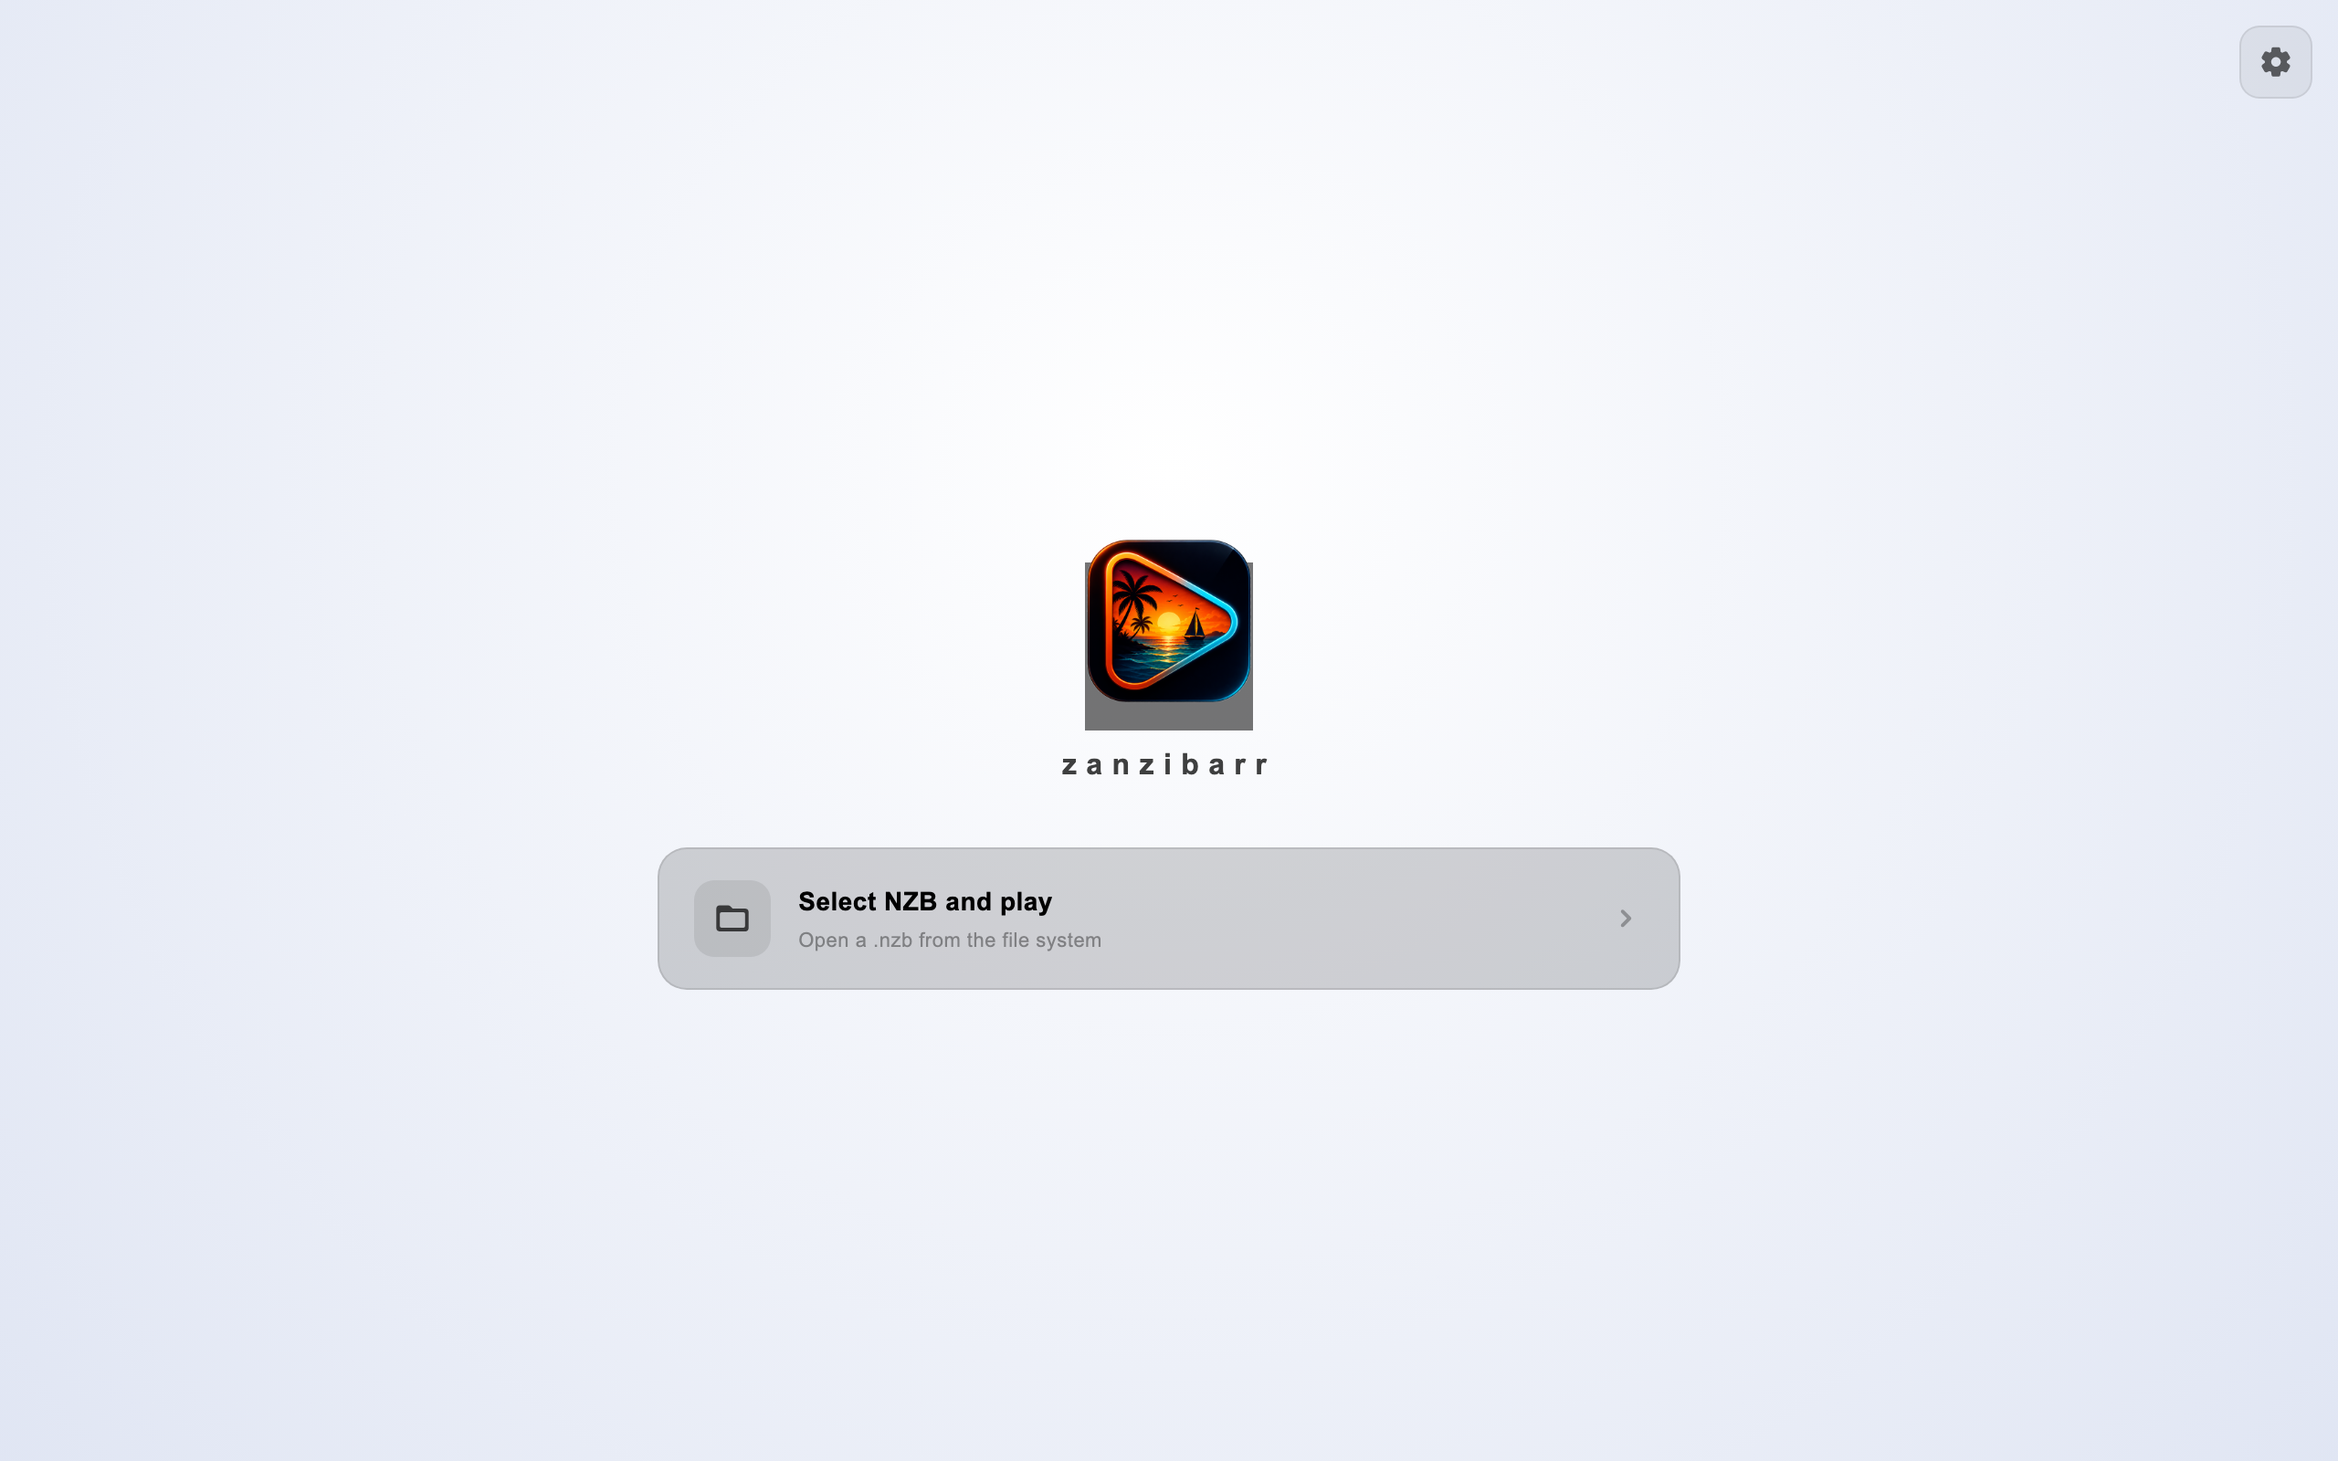
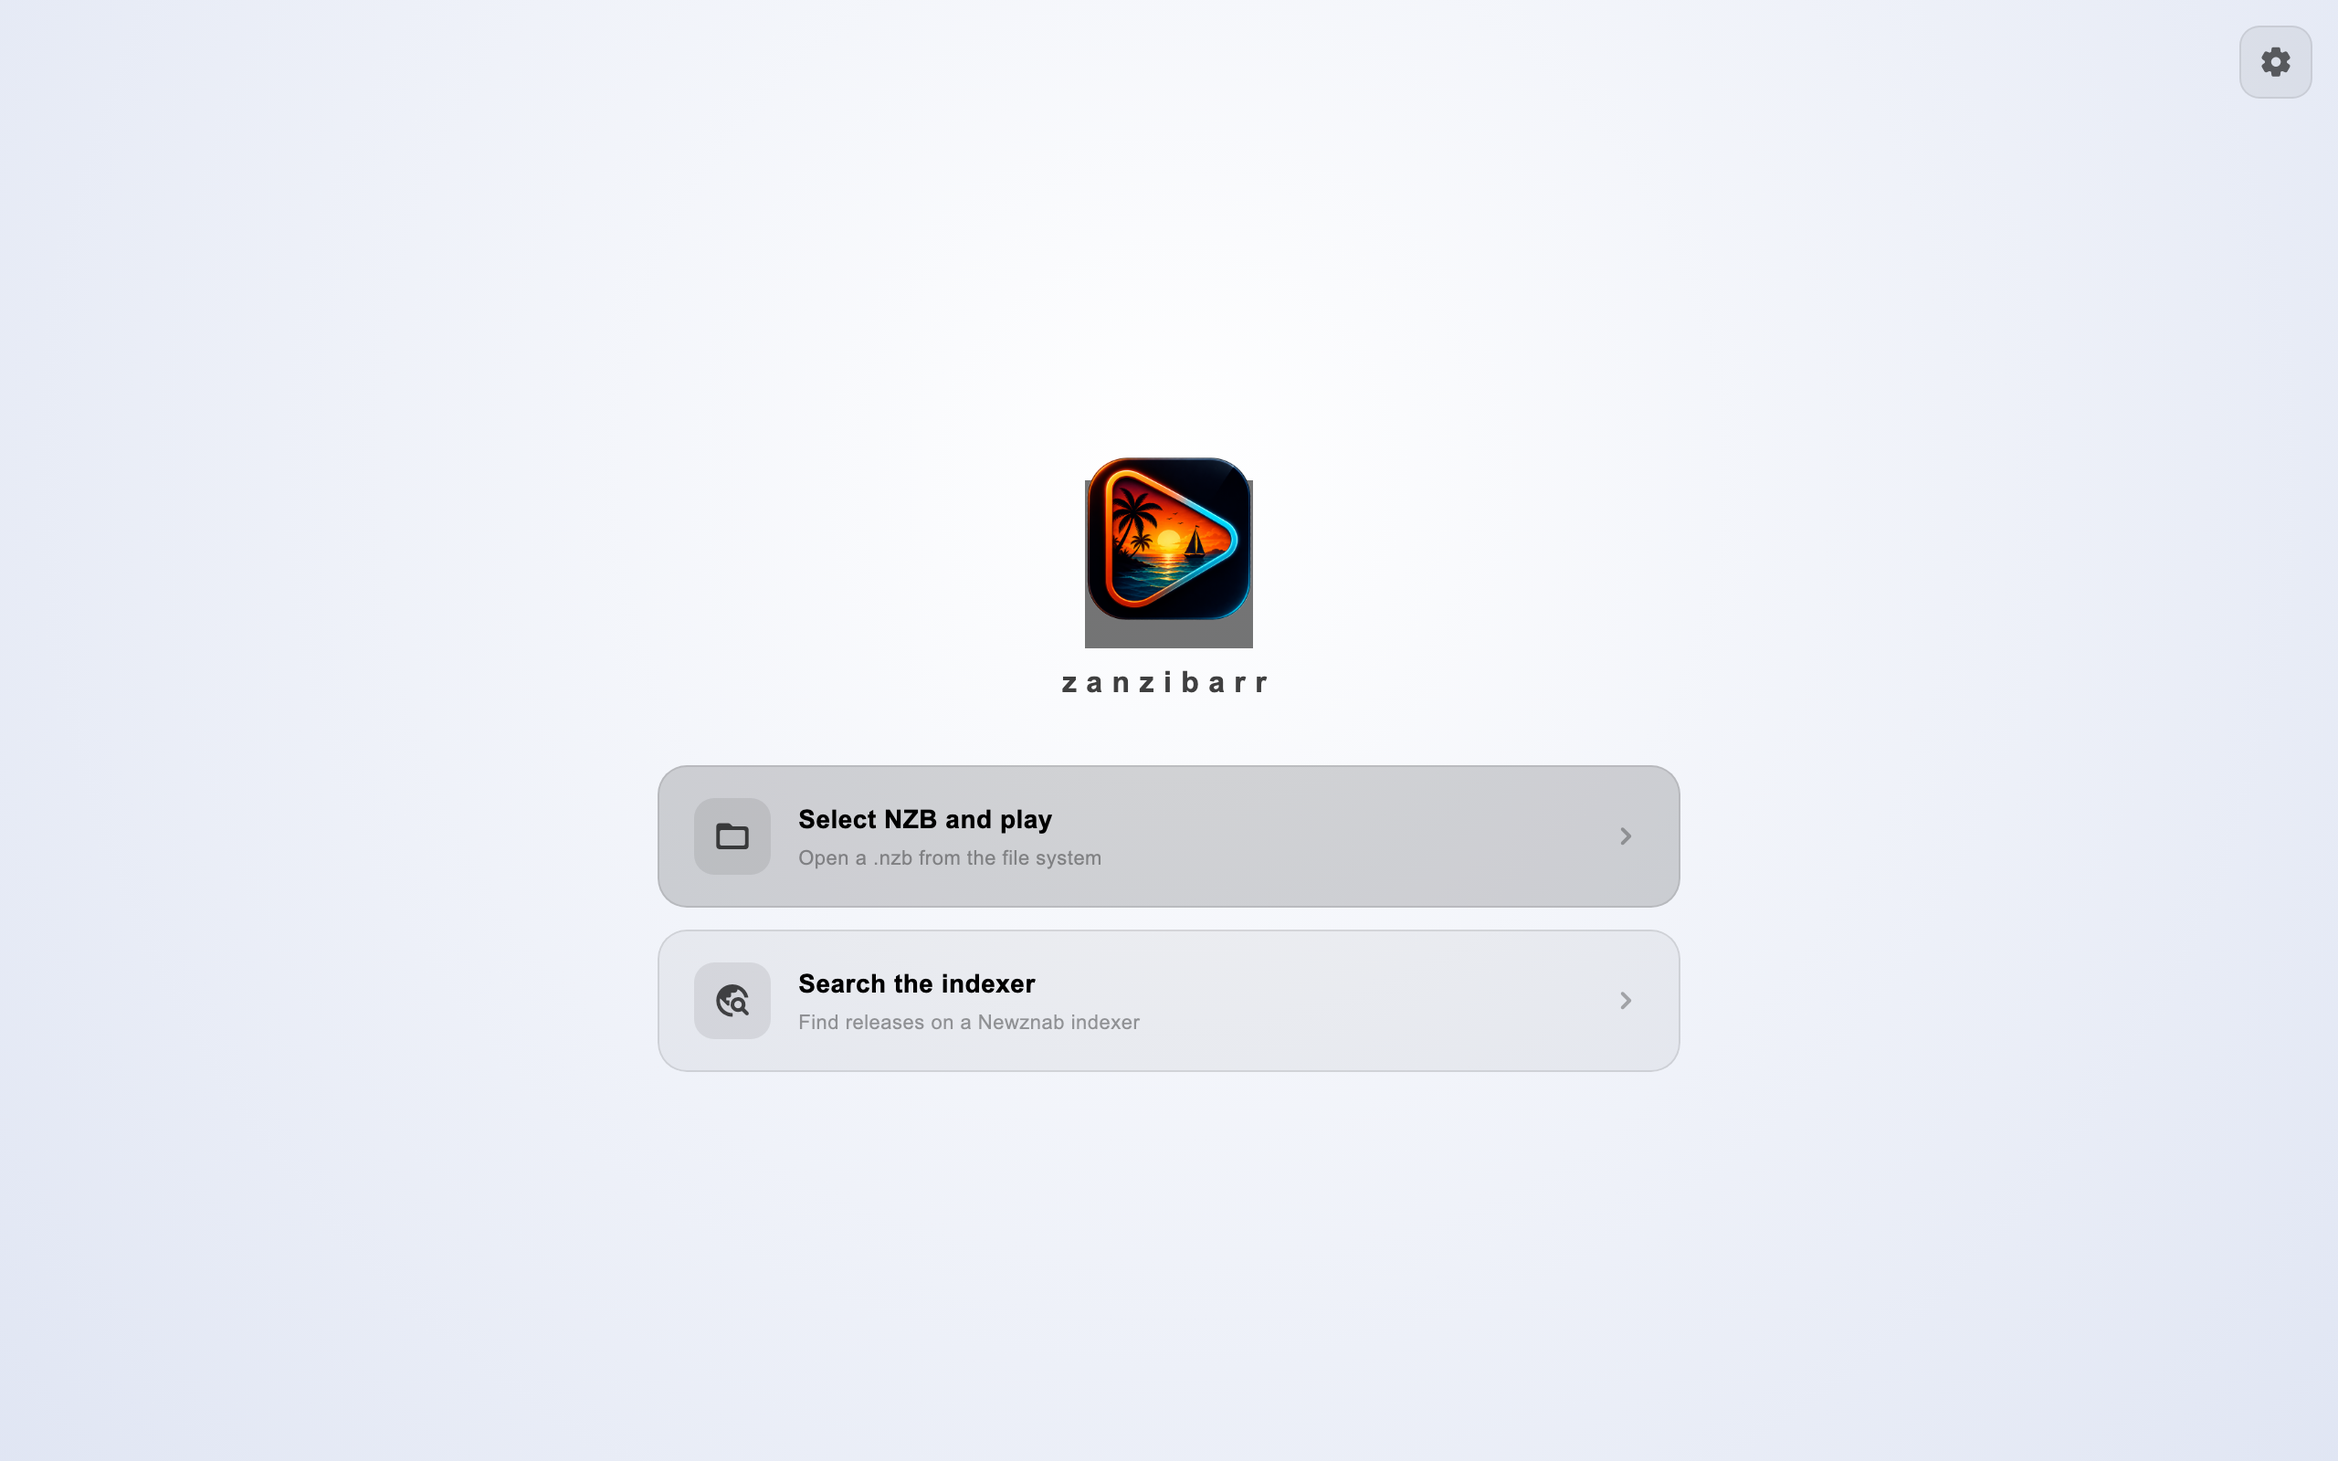
docs: indexer + PAR2 tanitimi — README/site ozellikleri, taze ekran goruntuleri, yeni demo GIF
- README: indexer arama, PAR2 onarim ve RAR4/sikistirilmis-7z destegi
  ozelliklere islendi; bayat 'compressed RAR/7z ve RAR4 reddedilir'
  cumlesi duzeltildi
- site: indexer + PAR2 kartlari, search.png galeride, roadmap guncel
- screenshots harness: settings artik indexer bolumunu de iciniyor,
  yeni 'search' golden'i ve demo_frames kare dizisi (12 kare);
  demo.gif indexerli akisla yeniden uretildi

Changed region(s): [[0.2812, 0.3125, 0.7188, 0.7188]]

diff --git a/test/screenshots_test.dart b/test/screenshots_test.dart
@@ -11,9 +11,12 @@ import 'package:zanzibarr/main.dart';
 import 'package:zanzibarr/player/gyuni_player_controls.dart';
 import 'package:zanzibarr/player/smart_canvas.dart';
 import 'package:zanzibarr/player/smart_canvas_overlay.dart';
+import 'package:zanzibarr/search/search_screen.dart';
+import 'package:zanzibarr/settings/indexer_settings.dart';
 import 'package:zanzibarr/settings/provider_settings.dart';
 import 'package:zanzibarr/settings/settings_screen.dart';
 import 'package:zanzibarr/settings/ui_preferences.dart';
+import 'package:zanzibarr/src/rust/api/search.dart';
 
 /// README için gerçek UI ekran görüntüleri üreten golden-test harness'ı.
 ///
@@ -184,6 +187,58 @@ class _FakeStore extends ProviderSettingsStore {
   @override
   Future<void> save(ProviderSettings settings) async {}
 }
+
+/// Indexer bölümü de dolu gözüksün diye sahte indexer deposu.
+class _FakeIndexerStore extends IndexerSettingsStore {
+  @override
+  Future<IndexerSettings> load() async => const IndexerSettings(
+    baseUrl: 'https://indexer.example',
+    apiKey: 'abc123-example-key',
+  );
+
+  @override
+  Future<void> save(IndexerSettings settings) async {}
+}
+
+/// Arama ekranı görseli için gerçekçi sonuç seti (rozetler Rust tarafından
+/// geliyormuş gibi; motor bunları release adından üretir).
+List<SearchItemDto> _fakeResults() => [
+  SearchItemDto(
+    title: 'Fight.Club.1999.UHD.BluRay.2160p.DDP.5.1.DV.HDR10.x265-hallowed',
+    nzbUrl: 'https://indexer.example/getnzb/1',
+    sizeBytes: BigInt.from(19463027098),
+    publishedEpochSecs:
+        DateTime.now().subtract(const Duration(days: 412)).millisecondsSinceEpoch ~/
+        1000,
+    badges: const ['2160p', 'BluRay', 'HEVC', 'DV', 'HDR10', 'DD+ 5.1'],
+    mediaKind: 'movie',
+    year: 1999,
+    group: 'hallowed',
+  ),
+  SearchItemDto(
+    title:
+        'Coming.to.America.1988.2160p.UHD.BluRay.Remux.HDR.DV.HEVC.DTS-HD.MA.5.1-PmP',
+    nzbUrl: 'https://indexer.example/getnzb/2',
+    sizeBytes: BigInt.from(52613349376),
+    publishedEpochSecs:
+        DateTime.now().subtract(const Duration(days: 87)).millisecondsSinceEpoch ~/
+        1000,
+    badges: const ['2160p', 'Remux', 'HEVC', 'HDR', 'DV', 'DTS-HD MA 5.1'],
+    mediaKind: 'movie',
+    year: 1988,
+  ),
+  SearchItemDto(
+    title: 'Fight.Club.1999.1080p.BluRay.x264.DTS-ESiR',
+    nzbUrl: 'https://indexer.example/getnzb/3',
+    sizeBytes: BigInt.from(10737418240),
+    publishedEpochSecs:
+        DateTime.now().subtract(const Duration(days: 640)).millisecondsSinceEpoch ~/
+        1000,
+    badges: const ['1080p', 'BluRay', 'x264', 'DTS'],
+    mediaKind: 'movie',
+    year: 1999,
+  ),
+];
 
 /// Oyuncu chrome'u için örnek parça listesi.
 const _tracks = Tracks(
@@ -614,6 +669,7 @@ void main() {
       _screenshotApp(
         SettingsScreen(
           store: _FakeStore(),
+          indexerStore: _FakeIndexerStore(),
           uiPreferences: UiPreferencesController(UiPreferencesStore()),
         ),
         ThemeMode.dark,
@@ -623,6 +679,33 @@ void main() {
     await expectLater(
       find.byType(MaterialApp),
       matchesGoldenFile('../docs/screenshots/settings.png'),
+    );
+  }), skip: _skipScreenshots);
+
+  testWidgets('search', (tester) => _desktopShot(() async {
+    _useWindow(tester, window);
+    await tester.pumpWidget(
+      _screenshotApp(
+        SearchScreen(
+          store: _FakeIndexerStore(),
+          searchFn: (config, query, limit, offset) async => SearchPageDto(
+            total: BigInt.from(3),
+            items: _fakeResults(),
+          ),
+          onDownloaded: (_) {},
+        ),
+        ThemeMode.dark,
+      ),
+    );
+    await _settleAssets(tester);
+    await tester.enterText(find.byType(TextField), 'fight club');
+    await tester.pump();
+    await tester.testTextInput.receiveAction(TextInputAction.search);
+    await tester.pump();
+    await tester.pump(const Duration(milliseconds: 400));
+    await expectLater(
+      find.byType(MaterialApp),
+      matchesGoldenFile('../docs/screenshots/search.png'),
     );
   }), skip: _skipScreenshots);
 
@@ -688,5 +771,76 @@ void main() {
       find.byType(MaterialApp),
       matchesGoldenFile('../docs/screenshots/smart_canvas.png'),
     );
+  }), skip: _skipScreenshots);
+
+  /// docs/screenshots/demo.gif için kare dizisi: ana ekran → indexer araması
+  /// → sonuçlar → indirme. Kareler `build/demo_frames/` altına düşer ve
+  /// ffmpeg ile paletli GIF'e birleştirilir (bkz. commit mesajı/notlar).
+  testWidgets('demo_frames', (tester) => _desktopShot(() async {
+    _useWindow(tester, const Size(2200, 1720)); // 1100×860 logical @2x
+    var frameIndex = 0;
+    Future<void> frame() async {
+      frameIndex++;
+      final name = 'f${frameIndex.toString().padLeft(2, '0')}';
+      await expectLater(
+        find.byType(MaterialApp),
+        matchesGoldenFile('../build/demo_frames/$name.png'),
+      );
+    }
+
+    // 1-3: ana ekran (indexer kartı ile).
+    await tester.pumpWidget(_screenshotApp(const HomeScreen(), ThemeMode.dark));
+    await _settleAssets(tester);
+    for (var n = 0; n < 3; n++) {
+      await frame();
+      await tester.pump(const Duration(milliseconds: 250));
+    }
+
+    // 4-7: arama ekranında sorgu yazımı.
+    await tester.pumpWidget(
+      _screenshotApp(
+        SearchScreen(
+          store: _FakeIndexerStore(),
+          searchFn: (config, query, limit, offset) async {
+            await Future<void>.delayed(const Duration(milliseconds: 350));
+            return SearchPageDto(total: BigInt.from(3), items: _fakeResults());
+          },
+          downloadFn: (config, url, name) async {
+            await Future<void>.delayed(const Duration(seconds: 2));
+            return '/tmp/demo.nzb';
+          },
+          onDownloaded: (_) {},
+        ),
+        ThemeMode.dark,
+      ),
+    );
+    await _settleAssets(tester);
+    for (final query in ['f', 'figh', 'fight cl', 'fight club']) {
+      await tester.enterText(find.byType(TextField), query);
+      await tester.pump();
+      await frame();
+    }
+
+    // 8: arama spinner'ı.
+    await tester.testTextInput.receiveAction(TextInputAction.search);
+    await tester.pump();
+    await frame();
+
+    // 9-10: sonuçlar.
+    await tester.pump(const Duration(milliseconds: 450));
+    await tester.pump();
+    await frame();
+    await tester.pump(const Duration(milliseconds: 250));
+    await frame();
+
+    // 11-12: ilk sonuca dokunma → indirme spinner'ı.
+    await tester.tap(find.text(_fakeResults().first.title));
+    await tester.pump();
+    await frame();
+    await tester.pump(const Duration(milliseconds: 250));
+    await frame();
+    // Gecikmeli downloadFn'in saati bitsin ki teardown'da timer kalmasın.
+    await tester.pump(const Duration(seconds: 2));
+    await tester.pumpAndSettle();
   }), skip: _skipScreenshots);
 }

diff --git a/docs/index.html b/docs/index.html
@@ -389,6 +389,11 @@ createApp({
           icon: icon('<polygon points="6 4 20 12 6 20 6 4" fill="currentColor" stroke="none"/>'),
         },
         {
+          title: 'Built-in indexer search',
+          body: 'Type a title, get release rows with quality badges — 2160p · HEVC · DV · Atmos — tap one and it just plays. No browser, no download queue.',
+          icon: icon('<circle cx="11" cy="11" r="7"/><path d="M21 21l-4.35-4.35"/>'),
+        },
+        {
           title: 'Seek like it\'s a local file',
           body: 'Byte offsets resolve from decoded yEnc begin/end positions — frame-accurate across thousands of segments, even on 100+ GB releases.',
           icon: icon('<circle cx="12" cy="12" r="9"/><polyline points="12 7 12 12 15.5 14"/>'),
@@ -397,6 +402,11 @@ createApp({
           title: 'Opens archives others won\'t',
           body: 'Multi-volume RAR5 and split 7z — including AES-256 encrypted sets — reassemble in memory into one virtual, seekable file. Nothing touches disk.',
           icon: icon('<rect x="3" y="4" width="18" height="14" rx="2"/><path d="M3 9h18M8 4v5"/>'),
+        },
+        {
+          title: 'Scratches don\'t stop the show',
+          body: 'Missing or corrupt segments get rebuilt with PAR2 Reed-Solomon repair — byte-exact against par2cmdline — and served from a local overlay. Playback resumes where it failed.',
+          icon: icon('<path d="M12 3l8 4v5c0 5-3.5 8-8 9-4.5-1-8-4-8-9V7z"/><path d="M9 12l2 2 4-4"/>'),
         },
         {
           title: 'HDR & Dolby Vision, honest',
@@ -431,10 +441,11 @@ createApp({
       ],
       shots: [
         { src: 'home_dark.png', caption: 'Home — dark theme' },
+        { src: 'search.png', caption: 'Indexer search — badges at a glance' },
         { src: 'player_controls.png', caption: 'Player — auto-hiding controls' },
         { src: 'advanced_settings.png', caption: 'Video & audio — HDR, decode, presets' },
         { src: 'smart_canvas.png', caption: 'Smart Canvas — draw your crop' },
-        { src: 'settings.png', caption: 'Provider settings — keychain only' },
+        { src: 'settings.png', caption: 'Provider & indexer settings — keychain only' },
         { src: 'home_light.png', caption: 'Home — light theme' },
       ],
       downloads: [
@@ -473,9 +484,10 @@ createApp({
         { text: 'Multi-volume RAR5 & split 7z (STORE, AES-256) as virtual files', done: true },
         { text: 'HDR / HDR10 / Dolby Vision — incl. Profile 5 GPU reshape', done: true },
         { text: 'Android TV, 14 languages, dark & light themes', done: true },
-        { text: 'Newznab indexer search — browse & play inside the app', done: false },
-        { text: 'Compressed RAR/7z stream-seek, in-stream AES for RAR', done: false },
-        { text: 'PAR2 health check & repair', done: false },
+        { text: 'Newznab indexer search — browse & play inside the app', done: true },
+        { text: 'Compressed 7z (LZMA/LZMA2, solid) & RAR4 STORE stream-seek', done: true },
+        { text: 'PAR2 health check & Reed-Solomon repair — byte-exact vs par2cmdline', done: true },
+        { text: 'Compressed RAR stream-seek (no pure-Rust decoder exists)', done: false },
         { text: 'iOS & Linux builds', done: false },
       ],
     };

diff --git a/README.md b/README.md
@@ -37,6 +37,7 @@ zanzibarr turns Usenet into your personal streaming library. Point it at any `.n
 
 <details>
   <summary>More screenshots</summary>
+  <p align="center"><img src="docs/screenshots/search.png" alt="Indexer search" width="720"></p>
   <p align="center"><img src="docs/screenshots/advanced_settings.png" alt="Video & audio settings" width="720"></p>
   <p align="center"><img src="docs/screenshots/smart_canvas.png" alt="Smart Canvas" width="720"></p>
   <p align="center"><img src="docs/screenshots/settings.png" alt="Settings" width="720"></p>
@@ -48,11 +49,17 @@ zanzibarr turns Usenet into your personal streaming library. Point it at any `.n
 **Play instantly, never download**
 The Rust engine maps every seek position to the exact Usenet segments that hold it, fetches only those, decodes yEnc on the fly and serves the result through a lazy, range-aware local stream. Pause the player and the network goes quiet. Close the app and nothing is left behind on your disk.
 
+**Find it and play it — without leaving the app**
+Hook up any Newznab-compatible indexer and the home screen becomes your launchpad: capability discovery, release names parsed into quality badges (2160p · HEVC · DV · HDR10+ · TrueHD · Atmos · group), and a single tap streams the NZB straight into the player. No browser round-trips, no download manager, no queue.
+
 **Seek like it's a local file**
 Byte offsets are resolved from the decoded yEnc `begin/end` positions of every segment — never guessed from article sizes. The result is frame-accurate seeking across thousands of segments, even mid-segment, even on 100+ GB releases.
 
 **It opens the archives others won't**
-Straight video NZBs, multi-volume **RAR5** sets and split **7z** releases — including **AES-256 encrypted 7z** archives — are reassembled into a single virtual, seekable file entirely in memory. Nothing is extracted to disk. (Deliberately honest: compressed RAR/7z and RAR4 are declined rather than faked — see the roadmap.)
+Straight video NZBs, multi-volume **RAR5** sets, legacy **RAR4** volumes and split **7z** releases — **LZMA/LZMA2-compressed** and **AES-256 encrypted** sets included — are reassembled into a single virtual, seekable file entirely in memory. Nothing is extracted to disk. (Deliberately honest: only compressed RAR is still declined rather than faked — see the roadmap.)
+
+**Scratches don't stop the show**
+Missing or corrupt Usenet segments no longer kill the movie: hit **Repair with PAR2** on the error screen and the engine verifies every slice of the recovery set, rebuilds the damaged ones with Reed-Solomon (byte-exact against par2cmdline) and serves them from a local overlay. Playback resumes exactly where it failed.
 
 **A picture pipeline that respects your content**
 - Dynamic range selector that adapts to the file: **SDR · HDR · HDR10 · Dolby Vision** — modes the content doesn't carry stay visibly disabled, so you always know exactly what you're watching.
